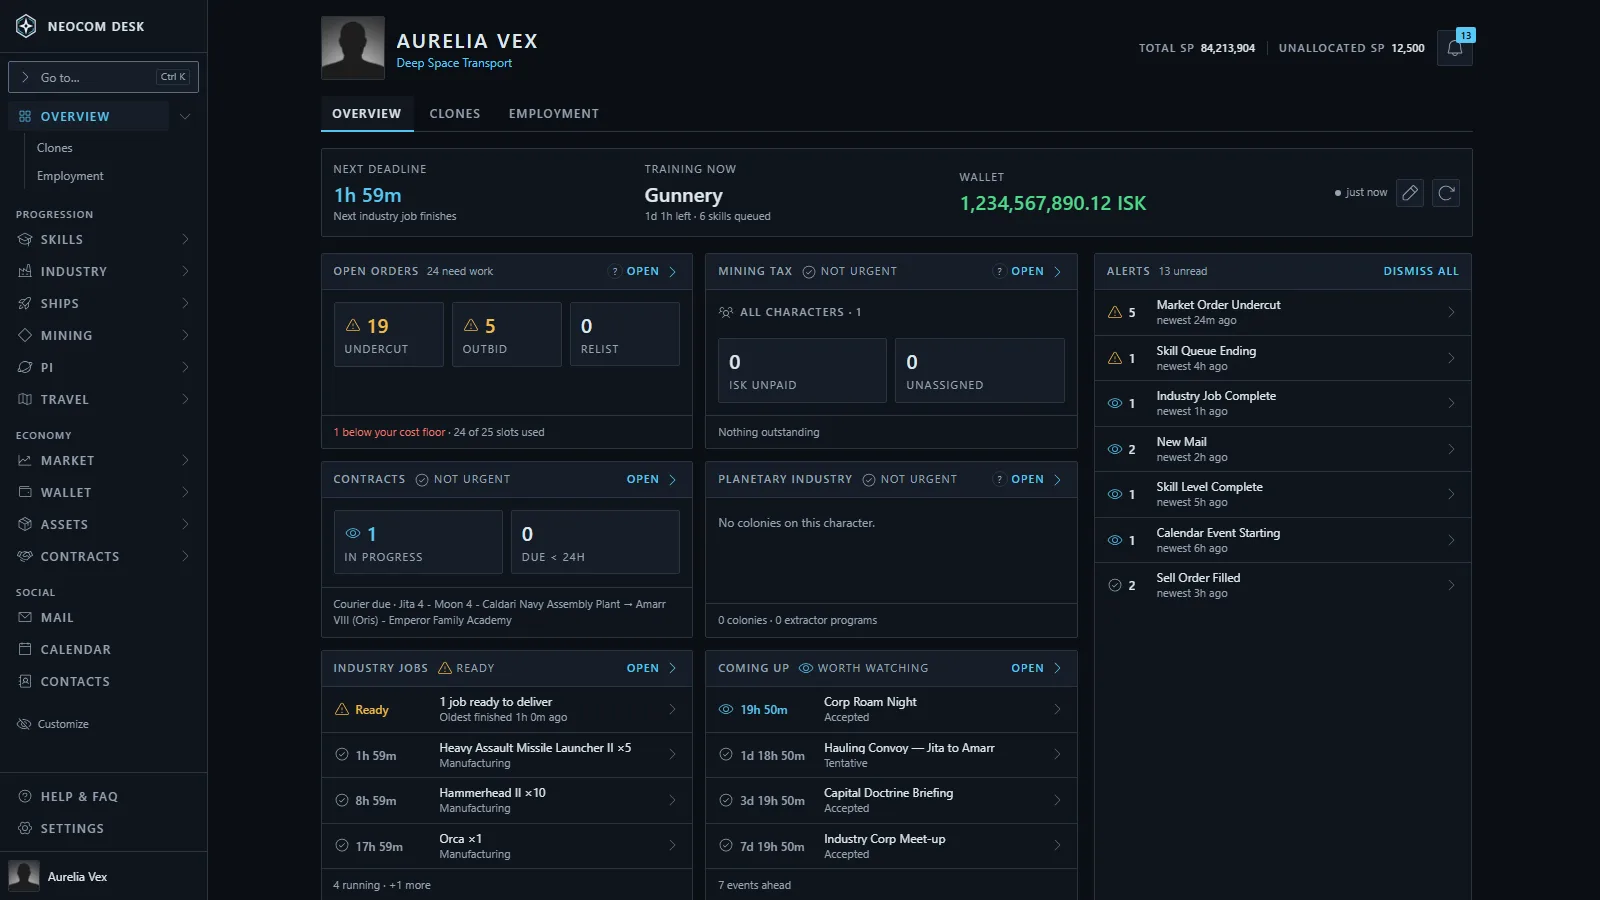
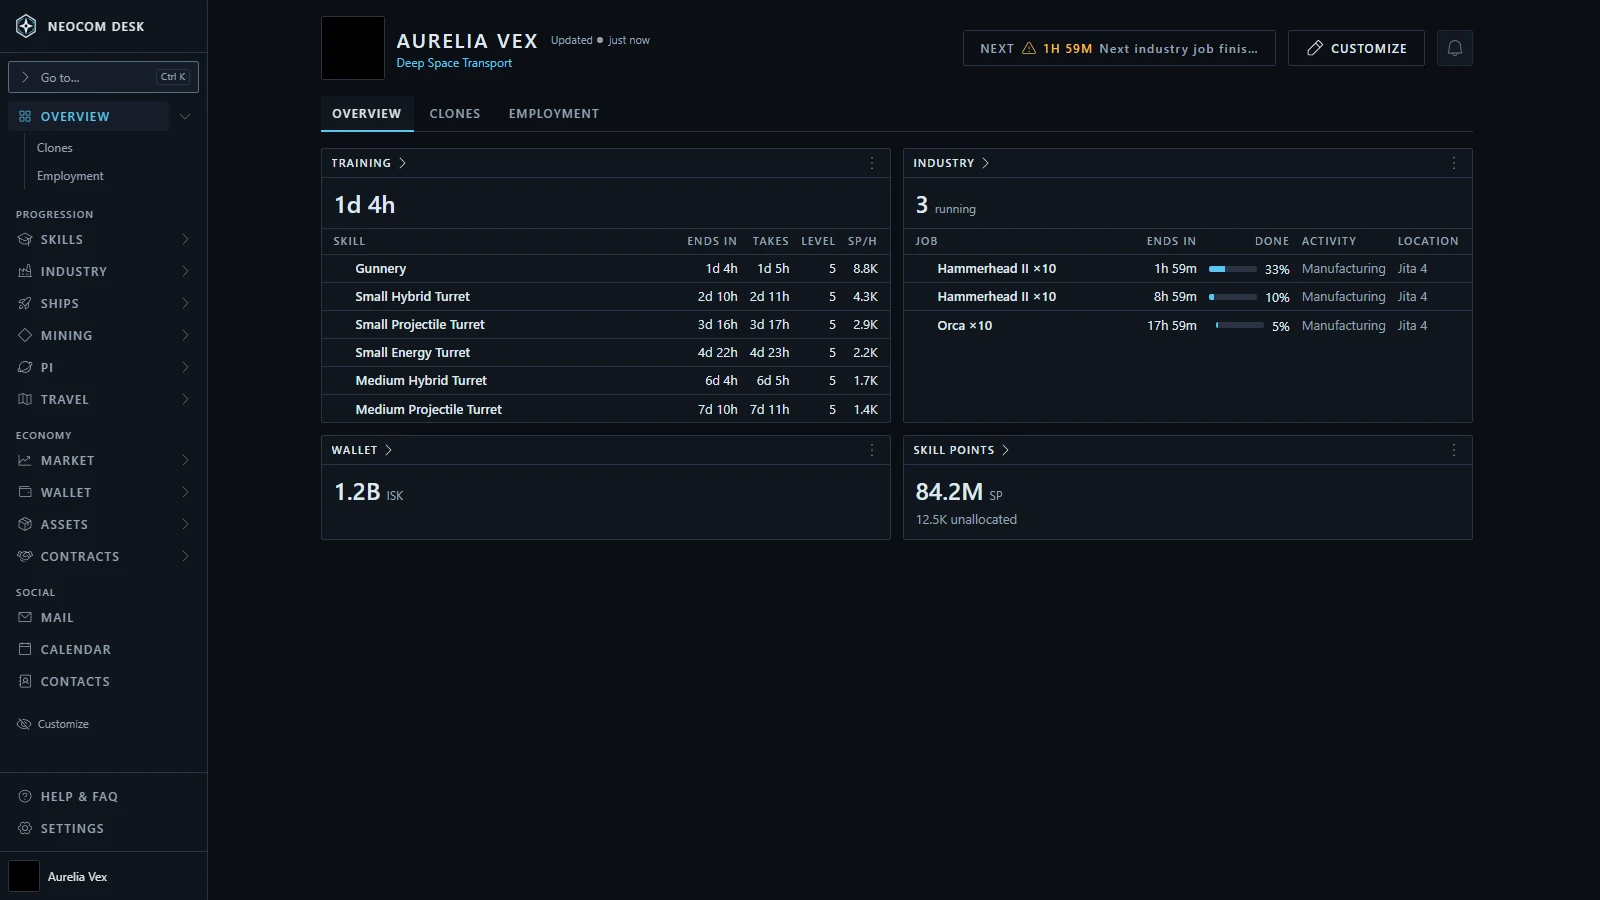
feat(login): retake the Overview capture, alt text and caption; phone-safe preview grid
Claude-Session: https://claude.ai/code/session_01Qd2X8irvjZk9F7bgi2jyNE

diff --git a/src/routes/Login.tsx b/src/routes/Login.tsx
@@ -14,9 +14,6 @@ import {
   Panel,
   plainTextActionClassName,
   SEVERITY_TEXT,
-  SeverityIcon,
-  StatChip,
-  StatChips,
 } from '@/components/ui';
 import { CustomizePermissionsDialog } from '@/features/permissions/CustomizePermissionsDialog';
 import { characterAvatarBoxClassName } from '@/components/ui/characterAvatarBox';
@@ -240,7 +237,7 @@ const TRUST: LandingRow[] = [
  *
  * The figures are the first tile's Overview capture (`desktop-overview`), so
  * the hero and the tiles tell one story: an industry job finishing in
- * 1h 59m as the next deadline, 26 orders needing work, 13 unread alerts.
+ * 1h 59m as the next deadline, three jobs running, the 84.2M SP total.
  */
 const PREVIEW = {
   name: 'Aurelia Vex',
@@ -255,13 +252,8 @@ const PREVIEW = {
   deadlineSeconds: 3600 + 59 * 60,
   trainingSeconds: 86_400 + 4 * 3600 + 20 * 60,
   queued: 6,
-  orders: {
-    needWork: 26,
-    used: 24,
-    slots: 41,
-  },
   alerts: 13,
-  jobsReady: 2,
+  jobsRunning: 3,
 };
 
 /** Landing page for signed-out users: what Neocom Desk does, and the EVE SSO login button. */
@@ -370,10 +362,6 @@ export function Login() {
                 </p>
                 <p className="truncate text-xs text-text-dim">{t('login.previewCorp')}</p>
               </div>
-              <StatChips>
-                <StatChip label={t('skills.totalSp')} value={PREVIEW.totalSp} />
-                <StatChip label={t('skills.unallocatedSp')} value={PREVIEW.unallocatedSp} />
-              </StatChips>
             </div>
 
             <div className={`${tabScrollerClassName} mt-3`}>
@@ -409,7 +397,9 @@ export function Login() {
                 <span className="shrink-0 tracking-widest text-text-dim uppercase">
                   {t('overview.header.next')}
                 </span>
-                <span className={`font-medium tabular-nums ${SEVERITY_TEXT.warning}`}>
+                <span
+                  className={`shrink-0 font-medium whitespace-nowrap tabular-nums ${SEVERITY_TEXT.warning}`}
+                >
                   {formatCountdown(PREVIEW.deadlineSeconds)}
                 </span>
                 <span className="truncate text-text-dim">{t('overview.board.nextJob')}</span>
@@ -431,7 +421,7 @@ export function Login() {
               </span>
             </div>
 
-            <div className="mt-2 grid grid-cols-2 gap-2">
+            <div className="mt-2 grid grid-cols-[repeat(auto-fit,minmax(15rem,1fr))] gap-2">
               <PreviewWidget title={t('overview.widgets.wallet.title')}>
                 <p className="text-xl font-medium tabular-nums text-isk-pos">
                   {formatIsk(PREVIEW.wallet, 2)}{' '}
@@ -448,25 +438,22 @@ export function Login() {
                 </p>
               </PreviewWidget>
 
-              <PreviewWidget title={t('overview.widgets.orders.title')}>
-                <p className="flex items-center gap-1.5 text-xl font-medium tabular-nums">
-                  <SeverityIcon severity="warning" size="1rem" />
-                  <span className={SEVERITY_TEXT.warning}>{PREVIEW.orders.needWork}</span>
+              <PreviewWidget title={t('overview.widgets.sp.title')}>
+                <p className="text-xl font-medium tabular-nums">
+                  {PREVIEW.totalSp}{' '}
+                  <small className="text-xs font-normal text-text-dim">
+                    {t('overview.widgets.sp.unit')}
+                  </small>
                 </p>
                 <p className="truncate text-xs text-text-dim">
-                  {t('overview.board.ordersMeta', { count: PREVIEW.orders.needWork })}
-                  {' · '}
-                  {t('overview.board.slotsUsed', {
-                    used: PREVIEW.orders.used,
-                    total: PREVIEW.orders.slots,
-                  })}
+                  {t('overview.widgets.sp.unallocated', { sp: PREVIEW.unallocatedSp })}
                 </p>
               </PreviewWidget>
 
               <PreviewWidget title={t('overview.widgets.industry.title')}>
-                <p className="text-xl font-medium tabular-nums">{PREVIEW.jobsReady}</p>
+                <p className="text-xl font-medium tabular-nums">{PREVIEW.jobsRunning}</p>
                 <p className="truncate text-xs text-text-dim">
-                  {t('overview.widgets.industry.ready')}
+                  {t('overview.widgets.industry.running')}
                   {' · '}
                   {formatCountdown(PREVIEW.deadlineSeconds)}
                 </p>

diff --git a/src/routes/Login.test.tsx b/src/routes/Login.test.tsx
@@ -242,11 +242,11 @@ describe('Login', () => {
     expect(preview.getByRole('img', { name: /13/ })).toBeInTheDocument();
 
     // The grid: one Widget per tile, each titled as the real Widget is.
-    for (const title of ['Wallet', 'Training', 'Open orders', 'Industry']) {
+    for (const title of ['Wallet', 'Training', 'Skill points', 'Industry']) {
       expect(preview.getByRole('region', { name: title })).toBeInTheDocument();
     }
     expect(preview.getByText('Gunnery')).toBeInTheDocument();
-    expect(preview.getByText(/26 need work/)).toBeInTheDocument();
+    expect(preview.getByText(/12,500 unallocated/)).toBeInTheDocument();
 
     // The fixed board is gone: no summary strip cells, no folded alerts row.
     expect(preview.queryByText('Training now')).not.toBeInTheDocument();

diff --git a/docs/features/auth-login.md b/docs/features/auth-login.md
@@ -41,7 +41,7 @@ Sign in with EVE SSO (first Character, or add an alt), choose how much to grant,
 
 - Shown only with zero Characters: any Character -> `Navigate('/characters')` (`Login.tsx:Login()`); count loading -> `BootScreen gate="login"`.
 - Play Store (TWA) variant (`isPlayStoreApp`, referrer-based, read once): logo, name, login, customize link only.
-- Marketing sections (`login.*`): header (logo and name only); centred funnel hero (eyebrow, heading "Answers, not API dumps.", tagline, EVE login button, customize link, then the static Overview preview with sample "Aurelia Vex" data: a Next-deadline and alerts-bell row over four Number Widgets (Wallet, Training, Open orders, Industry) using `overview.widgets.*` keys, `Login.tsx:PREVIEW`); a grid of 10 question tiles (`TILES`: question, sample-data capture from `/screenshots/*.webp`, one line of answer; the capture opens in `Modal placement="media"`, lazy with fixed size); feature catalog as name chips (Command, Progression, Economy, Social); trust cards ("Five writes, and nothing else", refresh token stays on device, offline, open source) with `login.permissionsHint` (read scopes) and a privacy-policy link; the five writes are listed in the first trust card; closing CTA; footer (GitHub, `/privacy.html`, `/data-credit.html`, Discord).
+- Marketing sections (`login.*`): header (logo and name only); centred funnel hero (eyebrow, heading "Answers, not API dumps.", tagline, EVE login button, customize link, then the static Overview preview with sample "Aurelia Vex" data: a Next-deadline and alerts-bell row over four Number Widgets (Wallet, Training, Skill points, Industry) using `overview.widgets.*` keys, `Login.tsx:PREVIEW`); a grid of 10 question tiles (`TILES`: question, sample-data capture from `/screenshots/*.webp`, one line of answer; the capture opens in `Modal placement="media"`, lazy with fixed size); feature catalog as name chips (Command, Progression, Economy, Social); trust cards ("Five writes, and nothing else", refresh token stays on device, offline, open source) with `login.permissionsHint` (read scopes) and a privacy-policy link; the five writes are listed in the first trust card; closing CTA; footer (GitHub, `/privacy.html`, `/data-credit.html`, Discord).
 - Login click -> `beginAddCharacterLogin()` (Base Grant), `pending` spinner/disabled; error resets.
 
 ## Scopes and Permissions

diff --git a/docs/context/decisions/20261011-150654-login-preview-mirrors-the-overview-widget-grid.md b/docs/context/decisions/20261011-150654-login-preview-mirrors-the-overview-widget-grid.md
@@ -4,4 +4,4 @@ _Recorded 2026-10-11._
 
 
 - **The hero preview shows the widget grid, not the retired board.** A Next-deadline and alerts-bell row over four Number Widgets (Wallet, Training, Open orders, Industry), each framed like a real Widget but with no page link. The summary strip, the Open orders card and the folded Alerts line are gone, matching `20261011-064822-overview-is-a-widget-grid-the-pilot-builds`.
-- **Not done:** `public/screenshots/desktop-overview.webp` (the first question tile) still shows the old board and needs recapturing from the new Overview.
+- **The first tile capture is retaken** from the new Overview (`desktop-overview.webp`: skill queue and industry tables, wallet, skill points), with its alt text and caption rewritten. The hero preview shows the same four widgets, and no longer carries the SP chips the real header dropped.
